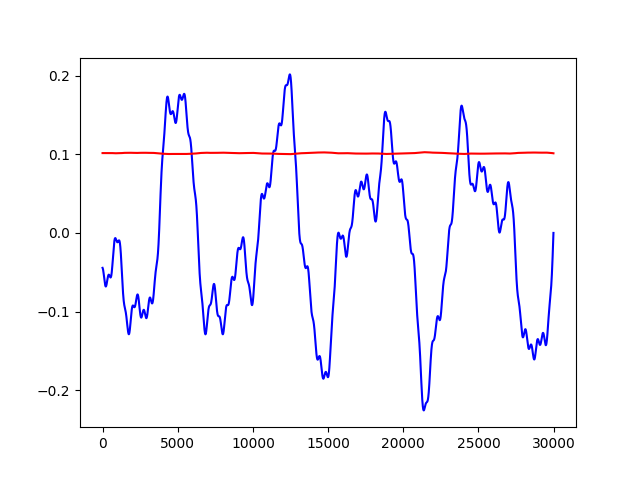
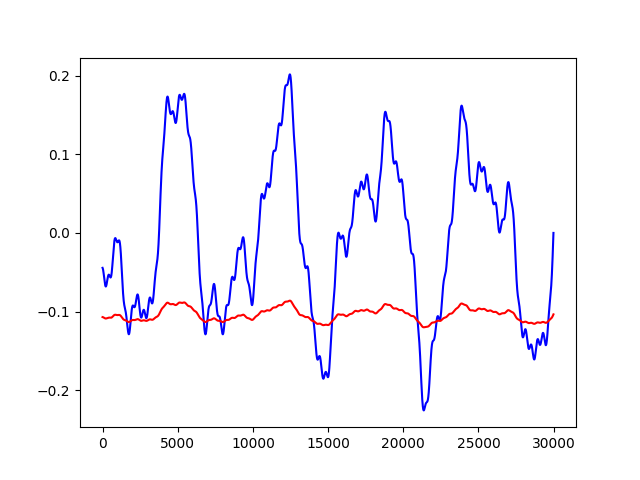
add

diff --git a/main.py b/main.py
@@ -43,7 +43,7 @@ RESULT_PATH = os.path.join('./result', opt.model)
 os.makedirs(RESULT_PATH, exist_ok=True)
 SEQ_LEN = 50
 INPUT_SIZE = 1 # The number of expected features in the input x
-HIDDEN_SIZE = 10 # The number of features in the hidden state h
+HIDDEN_SIZE = 50 # The number of features in the hidden state h
 NUM_LAYERS = 2
 OUTPUT_SIZE = 1
 BATCH_SIZE = 200
